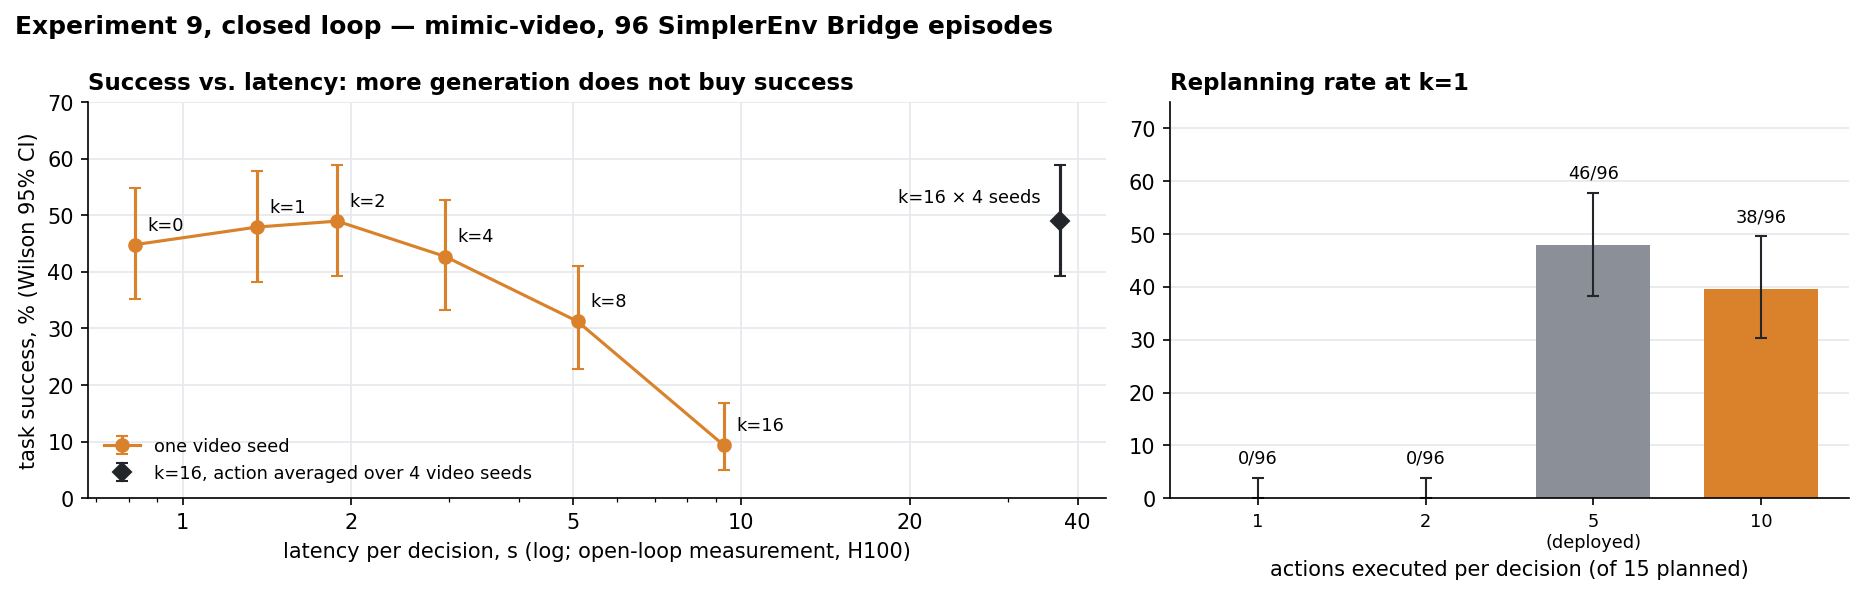
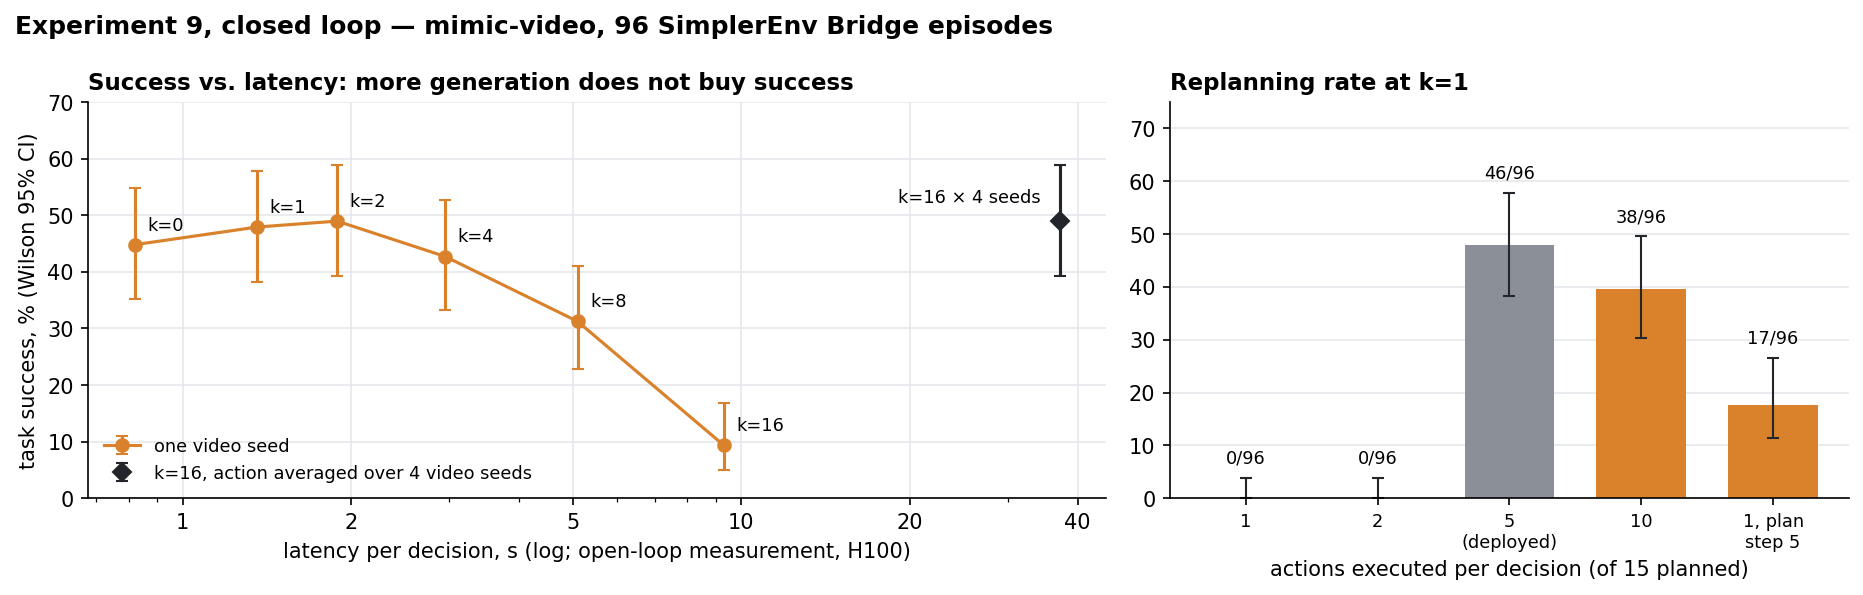
Exp 8 (F1 single-decision results, figure), Exp 9 replanning diagnostic

diff --git a/figures/make_figures.py b/figures/make_figures.py
@@ -308,5 +308,56 @@ def overview():
     save(fig, "fig_overview.png")
 
 
+# ---------------------------------------------------------------- Experiment 8
+# F1-VLA eval/bridge/experiment8_conflict/README.md (steps 0-1, mirror
+# instruction, 1785 decisions; mean over episodes with 95% bootstrap interval)
+def exp8():
+    tasks = ["Carrot", "Eggplant", "Spoon", "Stack"]
+    tok_seed = [(0.74, 0.71, 0.77), (0.67, 0.62, 0.72), (0.74, 0.71, 0.76), (0.71, 0.68, 0.74)]
+    tok_instr = [(0.19, 0.17, 0.21), (0.17, 0.15, 0.19), (0.22, 0.20, 0.24), (0.19, 0.18, 0.21)]
+    dist = {  # (mean, lo, hi) per task
+        "instruction changed everywhere: d(BB, AA)": ([(1.971, 1.761, 2.178), (1.370, 1.265, 1.477), (2.003, 1.805, 2.204), (1.589, 1.381, 1.805)], C["base"]),
+        "whole generation block from B: d(AB, AA)": ([(0.0053, 0.0046, 0.0063), (0.0052, 0.0045, 0.0060), (0.0043, 0.0039, 0.0047), (0.0035, 0.0033, 0.0037)], C["f1"]),
+        "only forecast positions from B: d(ABf, AA)": ([(0.0064, 0.0039, 0.0099), (0.0046, 0.0036, 0.0060), (0.0034, 0.0030, 0.0039), (0.0029, 0.0028, 0.0031)], "#8fb0dc"),
+        "noise floor, other forecast seed: d(AA2, AA)": ([(0.0048, 0.0038, 0.0063), (0.0046, 0.0036, 0.0061), (0.0034, 0.0031, 0.0037), (0.0029, 0.0027, 0.0031)], C["ink"]),
+    }
+    fig, axes = plt.subplots(1, 2, figsize=(12.5, 4), gridspec_kw={"width_ratios": [1, 1.5]})
+    ax = axes[0]
+    w = 0.36
+    for j, (vals, color, label) in enumerate([(tok_seed, C["ink"], "other sampling seed, same instruction"),
+                                               (tok_instr, C["f1"], "other instruction, same seed")]):
+        x = [i + (j - 0.5) * w for i in range(4)]
+        m = [100 * v[0] for v in vals]
+        ax.bar(x, m, width=w, color=color, label=label)
+        ax.errorbar(x, m, yerr=[[100 * (v[0] - v[1]) for v in vals], [100 * (v[2] - v[0]) for v in vals]],
+                    fmt="none", color="#666b73", capsize=2.5, lw=1)
+    ax.set_xticks(range(4), tasks)
+    ax.set_ylim(0, 100)
+    ax.set_ylabel("forecast tokens that change, %")
+    ax.set_title("The instruction changes the forecast\nless than resampling it does")
+    ax.legend(frameon=False, fontsize=8.5, loc="upper right")
+    ax.grid(axis="x", visible=False)
+    ax = axes[1]
+    w = 0.2
+    for j, (label, (vals, color)) in enumerate(dist.items()):
+        x = [i + (j - 1.5) * w for i in range(4)]
+        m = [v[0] for v in vals]
+        ax.bar(x, m, width=w, color=color, label=label)
+        ax.errorbar(x, m, yerr=[[v[0] - v[1] for v in vals], [v[2] - v[0] for v in vals]],
+                    fmt="none", color="#666b73", capsize=2, lw=1)
+    ax.set_yscale("log")
+    ax.set_ylim(0.001, 30)
+    ax.set_xticks(range(4), tasks)
+    ax.set_ylabel("change of the action chunk (log scale)")
+    ax.set_title("The action follows the instruction;\na forecast made for another instruction moves it no more than noise")
+    ax.legend(frameon=False, fontsize=8.5, loc="upper center", ncol=2)
+    ax.grid(axis="x", visible=False)
+    fig.suptitle("Experiment 8, single decisions — F1-VLA, mirrored instruction, 1785 decisions on SimplerEnv Bridge",
+                 x=0.01, ha="left", fontweight="bold")
+    fig.tight_layout()
+    save(fig, "fig_exp8_conflict.png")
+
+
 if __name__ == "__main__":
-    overview(); exp1(); exp2(); exp3(); exp4(); exp5(); camera(); exp9_open(); exp9_closed()
+    overview(); exp1(); exp2(); exp3(); exp4(); exp5(); camera(); exp9_open()
+    exp9_closed(extra_replan=[("1, plan\nstep 5", 17, 96)]); exp8()

diff --git a/thesis.md b/thesis.md
@@ -365,7 +365,47 @@ branch expects: does the *timing* of the predicted event matter?
 ### 6.3 Experiment 8 — Instruction–foresight conflict
 Keep the observation, change the instruction, compare futures and actions;
 then swap the futures between instructions. Does the action follow the
-goal, the foresight, or both? (Cue-conflict design, Geirhos et al., 2019.)
+goal, the foresight, or both? (Cue-conflict design, Geirhos et al., 2019;
+the swap is an interchange intervention, Geiger et al., 2021.)
+
+*F1-VLA, single decisions (1785 replanning decisions, 4 tasks).* The
+instruction reaches the action expert directly (language tokens in the
+understanding block) and through the forecast (the generation block is
+produced while attending to the language). On the same observation, the
+same forecast sampling seed and the same action start noise, the policy is
+run under the scene's instruction A and under an instruction B, and the
+action is decoded again from every combination of "understanding block of
+one run, generation block of the other". B is either the mirrored
+instruction (the two objects swapped, e.g. "stack the yellow block on the
+green block"; same token count, so no position shifts) or the instruction
+of another task.
+
+- *The instruction changes the forecast less than resampling does.* A
+  different instruction changes 11–22% of the 30 forecast tokens; a
+  different sampling seed under the same instruction changes 67–74%.
+- *The action follows the instruction it reads directly.* Changing the
+  instruction everywhere moves the action chunk by 1.0–2.0 (mean L2 per
+  step, normalised units). Putting the generation block of the other
+  instruction under an unchanged understanding block moves it by
+  0.004–0.010, and swapping only the 29 forecast positions by 0.003–0.006
+  — the size of the change caused by a re-drawn forecast under the same
+  instruction (0.003–0.005). The share of the way the action moves towards
+  the forecast's instruction is 0.01–0.02 in all 16 instruction pairs, in
+  both directions.
+- *Layout confirmed from data.* Two sampling seeds never differ before
+  position 984 of 1013: the generation block is 680 history positions
+  followed by 29 forecast positions.
+
+These are single decisions; whether small differences add up over an
+episode is tested in closed loop (the robot driven by each of the four
+combinations, mirrored instruction, 4 tasks × 24 episodes — running). The
+mirrored instructions are unusual for Bridge, so the closed loop also
+checks which object the robot goes for under B alone. mimic-video and
+LDA-1B: not done.
+
+![Experiment 8, F1-VLA, single decisions with the mirrored instruction. Left: share of forecast tokens that change with the sampling seed and with the instruction. Right: change of the action chunk when the instruction is changed everywhere, when only the generation block or only its forecast positions come from the other instruction, and between two forecast seeds (noise floor). Bars: mean over episodes, 95% bootstrap interval.](figures/fig_exp8_conflict.png)
+
+*Figure: Experiment 8, F1-VLA, single decisions with the mirrored instruction. Left: share of forecast tokens that change with the sampling seed and with the instruction. Right: change of the action chunk when the instruction is changed everywhere, when only the generation block or only its forecast positions come from the other instruction, and between two forecast seeds (noise floor). Bars: mean over episodes, 95% bootstrap interval.*
 
 ### 6.4 Experiment 9 — Compute–performance trade-off
 Vary generation steps, prediction detail and replanning frequency; plot
@@ -411,15 +451,26 @@ single-seed collapse is the decoder committing to one imagined future. This
 does not make deep forecasts useful: four of them (about 4 × 9.3 s) only
 match what k=1 gives in 1.4 s. Replanning rate at k=1: executing 10 of the
 15 planned actions instead of 5 gives 38/96 (−8.3 pp [−17.7, +1.0],
-p = 0.15); executing 1 or 2 gives 0/96, which is unexplained and not yet
-checked for a controller artifact. Forecast detail is not varied for mimic-video:
+p = 0.15). Executing only 1 or 2 gives 0/96, and a diagnostic shows why:
+in the deployed setting the gripper-close command sits in the later steps
+of the executed plan (share of "close" by plan step 1–5: 0.07, 0.10, 0.08,
+0.25, 0.35), and the first step moves the arm about a third as fast, so a
+controller that only ever executes step 1 never grasps (0 grasps in 96
+episodes). Replanning at every step but executing the pose and gripper of
+plan step 5 brings grasps back to 45/96 (deployed: 61/96) and success to
+17/96 (−30.2 pp [−40.6, −19.8] against deployed); shifting the pose alone
+gives 2/96. The zero is therefore a property of where the grasp sits in the
+plan, not evidence against frequent replanning; the remaining gap is
+unexplained (on Carrot the arm's path per episode is about 1.5 times
+longer than in the deployed setting, 58 cm against 39 cm, which may reflect
+a newly imagined future at every call — not tested). Forecast detail is not varied for mimic-video:
 resolution and clip length are fixed, the decoder was trained on a context
 of exactly that size, and changing it would alter the input layout rather
 than only the forecast's content (the confound of Section 7.1).
 
-![Experiment 9, closed loop. Left: success against latency per decision for denoising depths k=0–16, and for k=16 with the action averaged over four video seeds. Right: success against the number of planned actions executed per decision.](figures/fig_exp9_closed_loop.png)
+![Experiment 9, closed loop. Left: success against latency per decision for denoising depths k=0–16, and for k=16 with the action averaged over four video seeds. Right: success against the number of planned actions executed per decision; the last bar replans at every step but executes plan step 5 (pose and gripper).](figures/fig_exp9_closed_loop.png)
 
-*Figure: Experiment 9, closed loop. Left: success against latency per decision for denoising depths k=0–16, and for k=16 with the action averaged over four video seeds. Right: success against the number of planned actions executed per decision.*
+*Figure: Experiment 9, closed loop. Left: success against latency per decision for denoising depths k=0–16, and for k=16 with the action averaged over four video seeds. Right: success against the number of planned actions executed per decision; the last bar replans at every step but executes plan step 5 (pose and gripper).*
 
 ### 6.5 Experiment 10 — Perturbed starts and object displacement
 Evaluate from perturbed starting states or after moving an object mid-

diff --git a/README.md b/README.md
@@ -128,9 +128,23 @@ Thesis §5.6 · [LDA-1B](https://github.com/Coldilger/LDA-1B/blob/bridge-finetun
 ![Experiment 9, closed loop](figures/fig_exp9_closed_loop.png)
 
 Success is flat for 0–4 denoising steps and falls from 8 steps on, while
-latency grows from 1.4 s to 9.3 s. Thesis §6.4 ·
+latency grows from 1.4 s to 9.3 s. Averaging the action over four imagined
+futures at 16 steps brings success back (47/96). Executing only 1–2 planned
+actions gives 0/96 because the grasp sits in the later steps of the plan;
+executing plan step 5 at every step recovers 17/96. Thesis §6.4 ·
 [mimic-video](https://github.com/Coldilger/mimic-video/blob/main/eval/bridge/experiment9_depth/README.md).
 Not done yet for F1-VLA and LDA-1B.
+
+### Experiment 8 — Instruction–foresight conflict (F1-VLA)
+
+![Experiment 8, single decisions](figures/fig_exp8_conflict.png)
+
+At a single decision the action follows the instruction it reads directly:
+a forecast generated under another instruction moves the action no more
+than a re-drawn forecast under the same instruction (about 0.3% of what
+changing the instruction does). Closed loop is running. Thesis §6.3 ·
+[F1-VLA](https://github.com/Coldilger/F1-VLA/blob/bridge-finetune/eval/bridge/experiment8_conflict/README.md).
+Not done for mimic-video and LDA-1B.
 
 ### Planned, no results yet
 
@@ -138,7 +152,6 @@ Not done yet for F1-VLA and LDA-1B.
 |---|---|---|
 | 6 — Graded foresight replacement | How wrong may the forecast be? | §6.1 |
 | 7 — Horizon-shifted foresight | Does the timing of the forecast matter? | §6.2 |
-| 8 — Instruction–foresight conflict | Does the action follow the instruction or the forecast? | §6.3 |
 | 10 — Perturbed starts | Is foresight useful when the robot has to adapt? | §6.5 |
 | 11 — Matched action-only baseline | Did forecasting help during training? | §6.6 |
 | 12 — BridgeData pipeline audit | Is LDA-1B's 0% on Bridge a data-processing difference? | §6.7 |

diff --git a/notes/exp8_f1_instruction_conflict_design.md b/notes/exp8_f1_instruction_conflict_design.md
@@ -1,6 +1,7 @@
-# Experiment 8 (advisor's point 7) for F1-VLA — design under discussion (2026-11-15)
+# Experiment 8 (advisor's point 7) for F1-VLA — design (2026-11-15)
 
-Not run yet. Extends the cue-conflict design of Geirhos et al. (2019) and
+Steps 0–1 done on 2026-11-16 (results: F1-VLA `eval/bridge/experiment8_conflict/README.md`, thesis §6.3); step 2 running.
+The forecast part of the generation block is 29 positions (the inputs of scales 2–4); 30 tokens are sampled. Extends the cue-conflict design of Geirhos et al. (2019) and
 interchange interventions (Geiger et al., 2021) to a policy's forecast.
 
 ## Question
